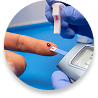
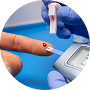
new changes

diff --git a/src/pages/LabTestCheckout.jsx b/src/pages/LabTestCheckout.jsx
@@ -123,19 +123,26 @@ const LabTestCheckout = () => {
         : 0;
 
     const SLOT_FIXING_THRESHOLD = 499;
-    const SLOT_FIXING_CHARGE = 200;  
+    const SLOT_FIXING_CHARGE = 200;
+
+    // const labTotal = labCart.reduce((sum, test) => {
+    //     const assignedCount = selectedPatients[test._id]?.length || 0;
+    //     const totalForTest = Number(test.price || 0) * (assignedCount || 1);
+    //     return sum + totalForTest;
+    // }, 0);
 
     const labTotal = labCart.reduce((sum, test) => {
-        const assignedCount = selectedPatients[test._id]?.length || 0;
-        const totalForTest = Number(test.price || 0) * (assignedCount || 1);
-        return sum + totalForTest;
+        const assignedCount = selectedPatients[test._id]?.length;
+        // If no patient selected yet, assume 1 for display purpose
+        const countForPrice = assignedCount && assignedCount > 0 ? assignedCount : 1;
+        return sum + Number(test.price || 0) * countForPrice;
     }, 0);
 
-      // Automatic slot fixing charge if subtotal < ₹499
-  const slotCharge = labTotal > 0 && labTotal < SLOT_FIXING_THRESHOLD ? SLOT_FIXING_CHARGE : 0;
+    // Automatic slot fixing charge if subtotal < ₹499
+    const slotCharge = labTotal > 0 && labTotal < SLOT_FIXING_THRESHOLD ? SLOT_FIXING_CHARGE : 0;
 
-  // Grand total including slot charge
-  const grandTotal = labTotal + valueAddOnTotal + slotCharge - discount;
+    // Grand total including slot charge
+    const grandTotal = labTotal + valueAddOnTotal + slotCharge - discount;
 
 
     // const totalToPay = labTotal - (appliedCoupon?.discount || 0);
@@ -561,7 +568,7 @@ const LabTestCheckout = () => {
 
     const selfExists = patients.some(
         (p) => p.relation === "Self" && p._id !== editingPatient?._id
-      );
+    );
 
     return (
         <div className="container my-4">
@@ -876,11 +883,11 @@ const LabTestCheckout = () => {
                         </div>
 
                         {slotCharge > 0 && (
-                <div className="d-flex justify-content-between mb-1">
-                  <span>Slot Fixing Charge </span>
-                  <span>₹{slotCharge.toFixed(2)}</span>
-                </div>
-              )}
+                            <div className="d-flex justify-content-between mb-1">
+                                <span>Slot Fixing Charge </span>
+                                <span>₹{slotCharge.toFixed(2)}</span>
+                            </div>
+                        )}
 
                         {addonSelected && (
                             <div className="d-flex justify-content-between mb-1">

diff --git a/src/pages/Testdetails/HolisticPackageDetails.jsx b/src/pages/Testdetails/HolisticPackageDetails.jsx
@@ -434,10 +434,10 @@ const HolisticPackageDetails = () => {
                                 <div className="view-less-moree">
                                     <h4>Know more about this test</h4>
                                     <p>
-                                        {expandedDetails ? pkg.description : pkg.description?.slice(0, 250)}
-                                        {!expandedDetails && pkg.description?.length > 250 ? "..." : ""}
+                                        {expandedDetails ? pkg.description : pkg.description?.slice(0, 550)}
+                                        {!expandedDetails && pkg.description?.length > 550 ? "..." : ""}
                                     </p>
-                                    {pkg.description?.length > 250 && (
+                                    {pkg.description?.length > 550 && (
                                         <Link
                                             className="view-more-abcds"
                                             style={{ cursor: "pointer" }}

diff --git a/src/pages/Testdetails/Individualtestdetails.jsx b/src/pages/Testdetails/Individualtestdetails.jsx
@@ -442,12 +442,12 @@ const Individualtestdetails = () => {
                                     dangerouslySetInnerHTML={{
                                         __html: expandedDetails
                                             ? test.fulltestdetails
-                                            : test.fulltestdetails?.substring(0, 250) +
-                                            (test.fulltestdetails?.length > 250 ? "..." : "")
+                                            : test.fulltestdetails?.substring(0, 550) +
+                                            (test.fulltestdetails?.length > 550 ? "..." : "")
                                     }}
                                 />
 
-                                {test.fulltestdetails?.length > 250 && (
+                                {test.fulltestdetails?.length > 550 && (
                                     <span
                                         className="view-more-abcds"
                                         style={{ cursor: "pointer" }}

diff --git a/src/pages/Testdetails/Packagetestdetails.jsx b/src/pages/Testdetails/Packagetestdetails.jsx
@@ -510,11 +510,11 @@ const Packagetestdetails = () => {
                                     dangerouslySetInnerHTML={{
                                         __html: expandedDetails
                                             ? pkg.fulltestdetails
-                                            : pkg.fulltestdetails?.substring(0, 250) +
-                                            (pkg.fulltestdetails?.length > 250 ? "..." : "")
+                                            : pkg.fulltestdetails?.substring(0, 550) +
+                                            (pkg.fulltestdetails?.length > 255500 ? "..." : "")
                                     }}
                                 />
-                                {pkg.fulltestdetails?.length > 250 && (
+                                {pkg.fulltestdetails?.length > 550 && (
                                     <span
                                         className="view-more-abcds"
                                         style={{ cursor: "pointer" }}

diff --git a/src/components/LoginModal.jsx b/src/components/LoginModal.jsx
@@ -5,6 +5,7 @@ import { GoogleLogin } from "@react-oauth/google";
 import { toast } from "react-toastify";
 import CompleteProfileModal from "./CompleteProfileModal.jsx";
 import ForgotResetModal from "./ForgotResetModal.jsx";
+import { Link } from "react-router-dom";
 
 
 const LoginModal = ({ isOpen, onClose }) => {
@@ -75,7 +76,6 @@ const LoginModal = ({ isOpen, onClose }) => {
         <Modal.Header closeButton>
           <Modal.Title className="sign-up-in">Sign In Your Account</Modal.Title>
         </Modal.Header>
-
         <Modal.Body className="modal-reg-login">
           <Form onSubmit={handleSubmit}>
             <Form.Group className="mb-3">
@@ -120,7 +120,9 @@ const LoginModal = ({ isOpen, onClose }) => {
               Login
             </Button>
           </Form>
-
+          <div className="signup-modal-new">
+            New user <Link>Register here</Link>
+          </div>
           <div className="text-center mb-3">
             <Button
               variant="link"

diff --git a/src/pages/Cart.jsx b/src/pages/Cart.jsx
@@ -115,9 +115,16 @@ const Cart = () => {
   const SLOT_FIXING_CHARGE = 200;
 
   // --- LAB TEST TOTAL ---
+  // const labTotal = labCart.reduce((sum, test) => {
+  //   const assignedCount = selectedPatients[test._id]?.length || 0;
+  //   return sum + Number(test.price || 0) * assignedCount;
+  // }, 0);
+
   const labTotal = labCart.reduce((sum, test) => {
-    const assignedCount = selectedPatients[test._id]?.length || 0;
-    return sum + Number(test.price || 0) * assignedCount;
+    const assignedCount = selectedPatients[test._id]?.length;
+    // If no patient selected yet, assume 1 for display purpose
+    const countForPrice = assignedCount && assignedCount > 0 ? assignedCount : 1;
+    return sum + Number(test.price || 0) * countForPrice;
   }, 0);
 
   // Automatic slot fixing charge if subtotal < ₹499

diff --git a/src/App.css b/src/App.css
@@ -4890,6 +4890,21 @@ img.test-images-1232122 {
     font-size: 24px;
 }
 
+span.view-more-abcds {
+    color: #46AAA0;
+    font-weight: 600;
+    font-size: 16px;
+    text-decoration: underline;
+}
+
+.popular-health-new-content img {
+    object-fit: cover;
+    height: 195px;
+    border-radius: 100px;
+    background: transparent;
+    box-shadow: 0px 4px 4px 0px #00000040;
+}
+
 /* .flex-footes {
     display: flex;
     gap: 30px;

diff --git a/src/responsive.css b/src/responsive.css
@@ -1933,4 +1933,8 @@
     .based-test {
         padding-bottom: 40px;
     }
+
+    .popular-health-new-content img {
+        height: 90px;
+    }
 }
